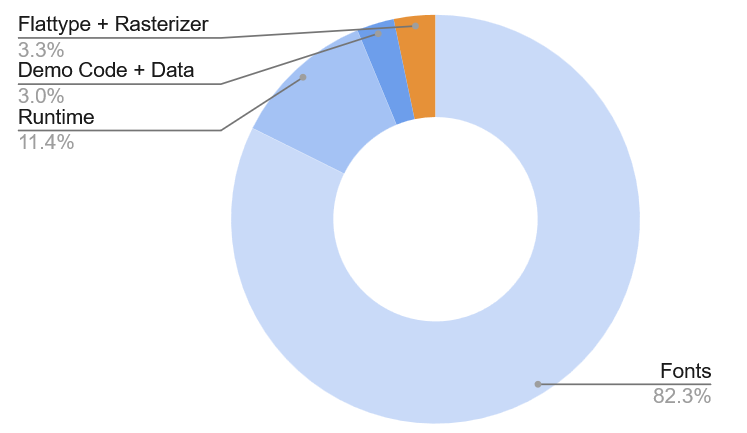
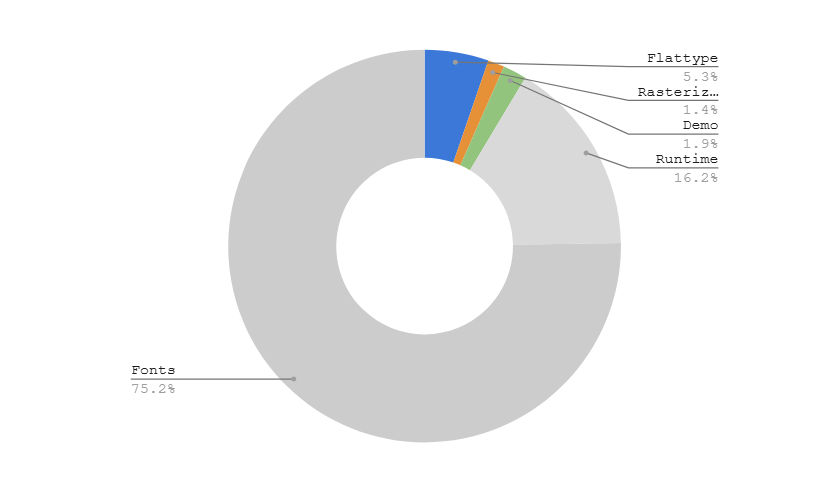
Update README.md

diff --git a/README.md b/README.md
@@ -31,9 +31,28 @@ The whole thing is reactive to a custom three-row touch gesture model: the top o
 
 ## What's in the binary
 
-Total flashed image is **~2.6 MB**, of which **~2.0 MB is fonts** from Google Fonts (embedded as `include_bytes!` in the binary's read-only data) and the remaining ~645 KB is code + data. Sizes are from `xtensa-esp32-elf-size` and a per-symbol breakdown via `xtensa-esp32-elf-nm` on a release build.
+Total flashed image is **~2.6 MB**, of which **~1.9 MB is fonts** from Google Fonts (embedded as `include_bytes!` in the binary's read-only data) and the remaining ~645 KB is code + data. Sizes are from `xtensa-esp32-elf-size` and a per-symbol breakdown via `xtensa-esp32-elf-nm` on a release build.
 
 ![Binary percentages](img/binary-donut-chart.png)
+
+**Code and data** (~480 KB total):
+
+| Component                                                          |         Size |
+|--------------------------------------------------------------------|-------------:|
+| **Flattype** code and data (bidi, shaper, renderer, rasterizer)    |  **~135 KB** |
+| Render path (flattener, rasterizer, pushing)                       |       ~35 KB |
+| **Text shaping + rendering + rasterizing subtotal**                |  **~170 KB** |
+| Demo logic (layout, touch, display, intro, the 5 demos, `main`)    |       ~30 KB |
+| ESP-IDF C runtime (FreeRTOS, drivers, ROM glue)                    |      ~165 KB |
+| Rust (`core`, `std` + `alloc`)                                     |      ~155 KB |
+| Backtrace machinery (`gimli`, `addr2line`, `rustc_demangle`, etc)  |       ~85 KB |
+| `compiler_builtins`, `esp-idf-hal`, `mipidsi`, other small crates  |        ~8 KB |
+| Misc rodata not attributable above (vtables, format strings, etc.) |       ~20 KB |
+| **Code + data subtotal**                                           |  **~635 KB** |
+| **Fonts (16 .ttf files embedded via include_bytes!)**              | **~1.93 MB** |
+| **Grand total**                                                    |  **~2.6 MB** |
+
+The headline number worth flagging: **the entire OpenType pipeline (shaping, outline extraction, flattening, and anti-aliased rasterizing) compiles to about 76 KB**. The largest single non-font cost is the ESP-IDF C runtime at ~147 KB, which is essentially fixed overhead for any Rust ESP32 program with `std` support, not specific to this demo.
 
 **Fonts** (read-only data, embedded in flash):
 
@@ -58,25 +77,6 @@ Total flashed image is **~2.6 MB**, of which **~2.0 MB is fonts** from Google Fo
 | **Fonts subtotal** | **~1.93 MB** |
 
 All are static monochrome vector fonts (not variable fonts). The fonts were downloaded from Google Fonts and are not subsetted (except for emoji); For a real product they would be slimmed down.
-
-**Code and data** (~480 KB total):
-
-| Component                                                          |         Size |
-|--------------------------------------------------------------------|-------------:|
-| **Flattype** code and data (bidi, shaper, renderer, rasterizer)    |  **~135 KB** |
-| Render path (flattener, rasterizer, pushing)                       |       ~35 KB |
-| **Font shaping + rendering + rasterizing subtotal**                |  **~170 KB** |
-| Demo logic (layout, touch, display, intro, the 5 demos, `main`)    |       ~30 KB |
-| ESP-IDF C runtime (FreeRTOS, drivers, ROM glue)                    |      ~165 KB |
-| Rust (`core`, `std` + `alloc`)                                     |      ~155 KB |
-| Backtrace machinery (`gimli`, `addr2line`, `rustc_demangle`, etc)  |       ~85 KB |
-| `compiler_builtins`, `esp-idf-hal`, `mipidsi`, other small crates  |        ~8 KB |
-| Misc rodata not attributable above (vtables, format strings, etc.) |       ~20 KB |
-| **Code + data subtotal**                                           |  **~635 KB** |
-| ** Fonts (16 .ttf files embedded via include_bytes!) **            | **~1.93 MB** |
-| **Grand total**                                                    |  **~2.6 MB** |
-
-The headline number worth flagging: **the entire OpenType pipeline (shaping, outline extraction, flattening, and anti-aliased rasterizing) compiles to about 76 KB**. The largest single non-font cost is the ESP-IDF C runtime at ~147 KB, which is essentially fixed overhead for any Rust ESP32 program with `std` support, not specific to this demo.
 
 ## Demos
 